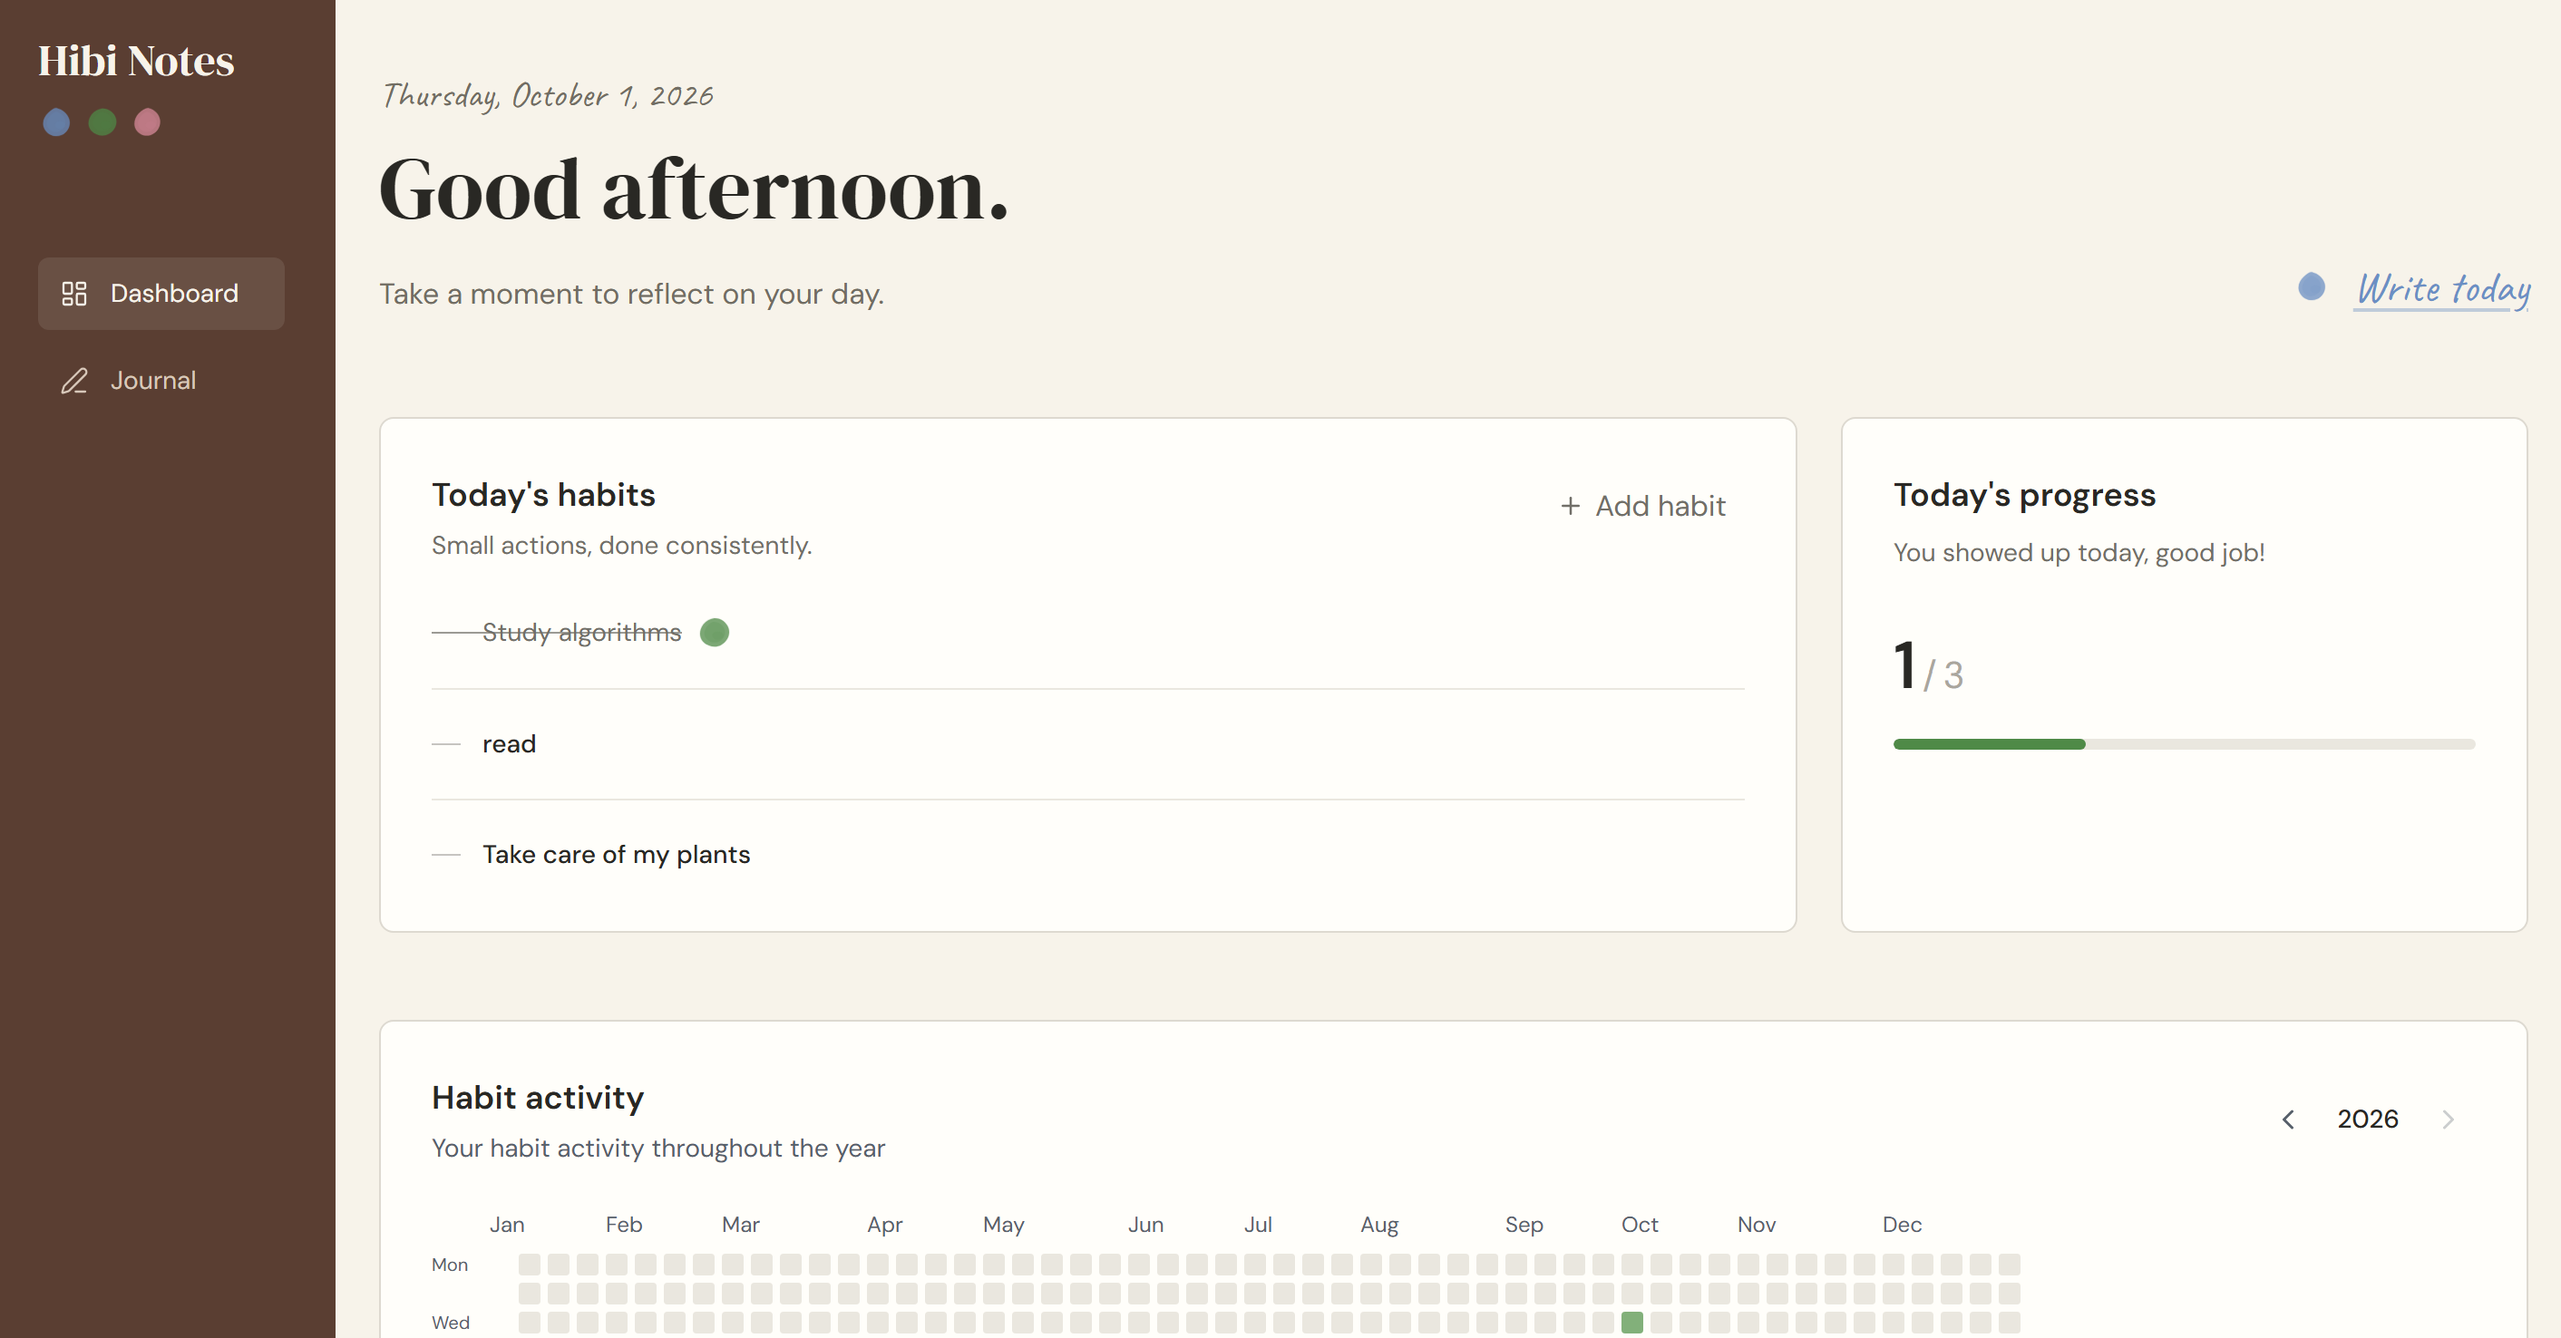
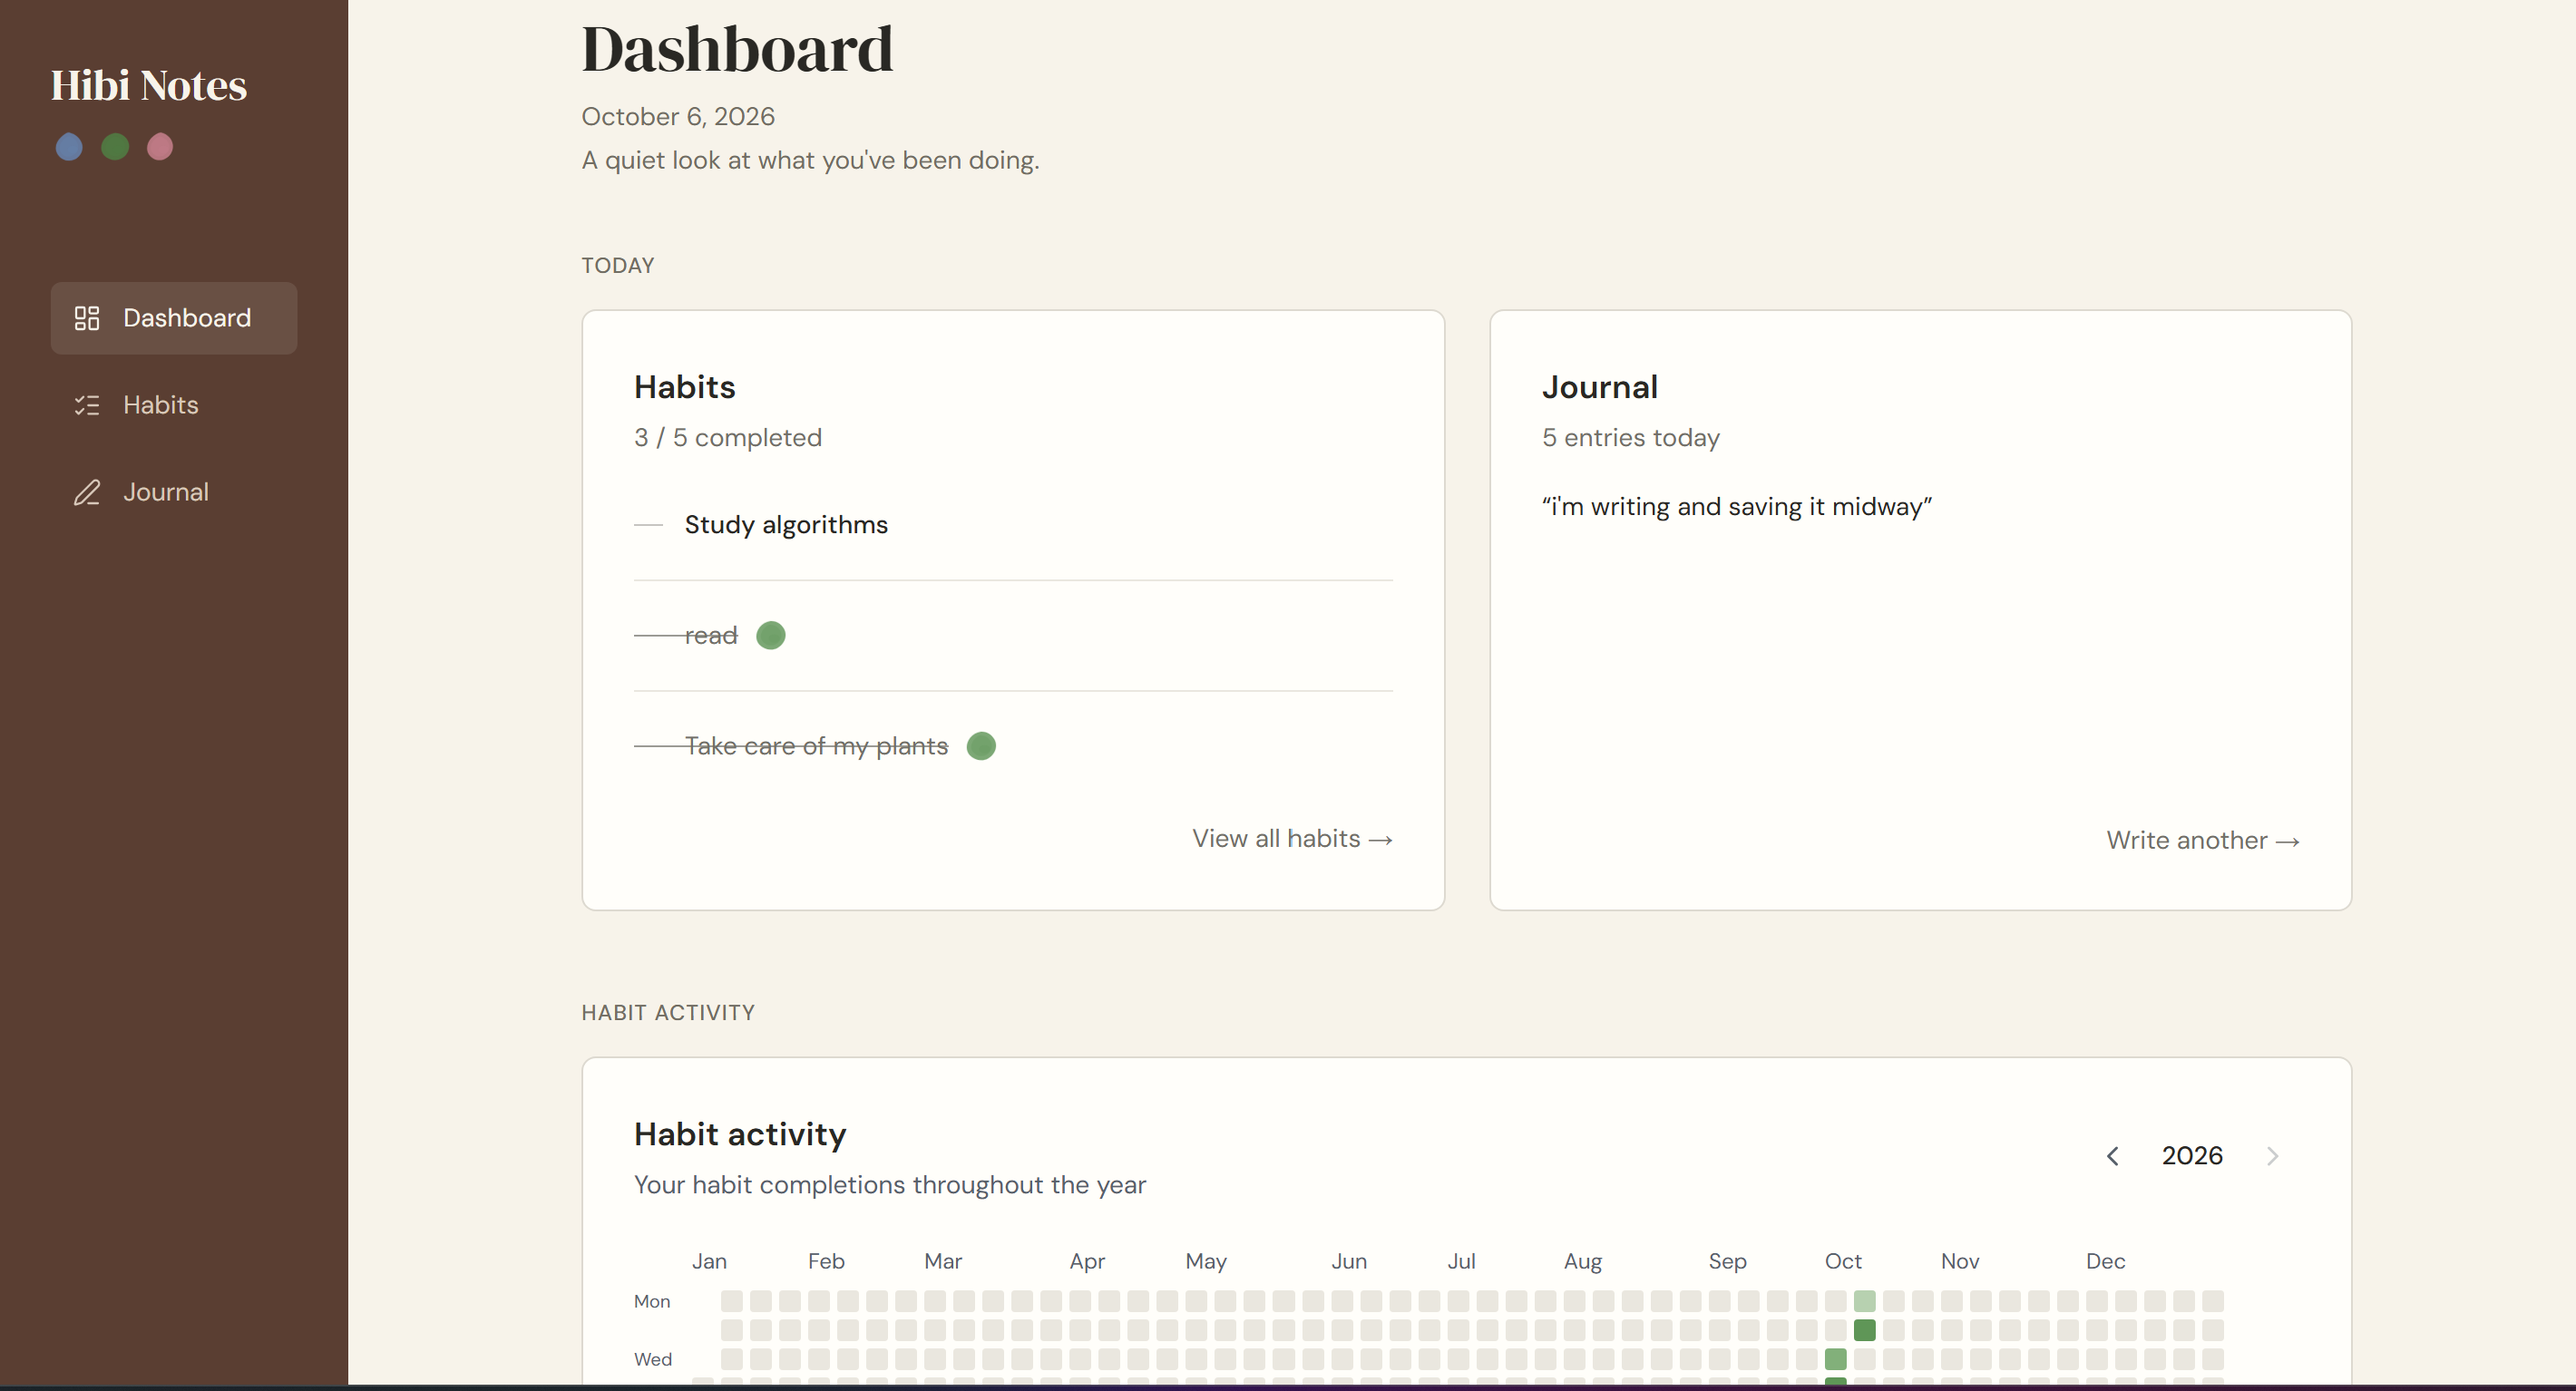
update design documents

diff --git a/design/CODEBASE_GUIDE.md b/design/CODEBASE_GUIDE.md
@@ -2,6 +2,8 @@
 
 This guide explains how Journal Habit Tracker works, assuming you have never used React, Express, Prisma or PostgreSQL. Read it top to bottom once, then use it as a map.
 
+[![Architecture diagram of suki-amalie/journal-habit-tracker](https://gitdiagram.com/suki-amalie/journal-habit-tracker/diagram.png)](https://gitdiagram.com/suki-amalie/journal-habit-tracker?utm_source=readme&utm_medium=picture)
+
 ## 1. The big picture
 
 The app has three parts that run separately and talk to each other:
